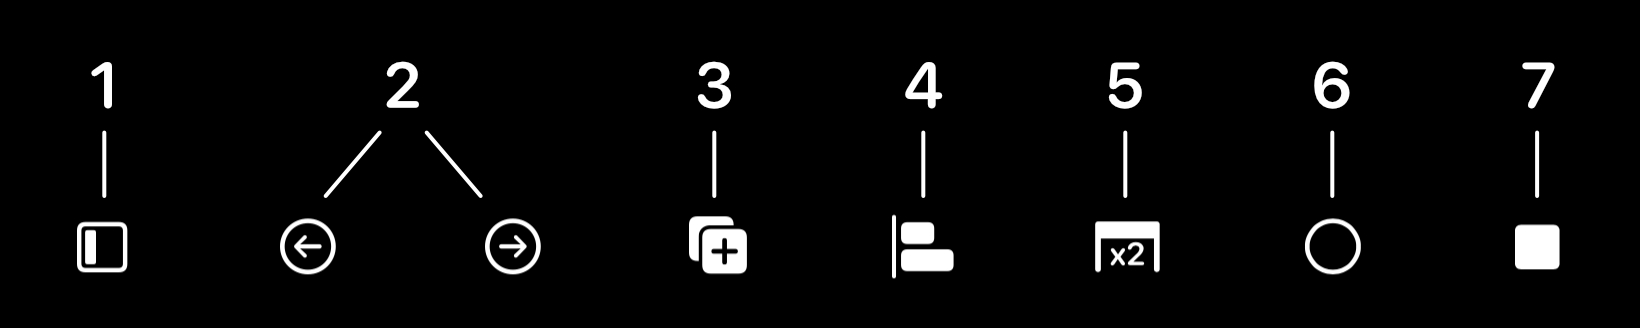
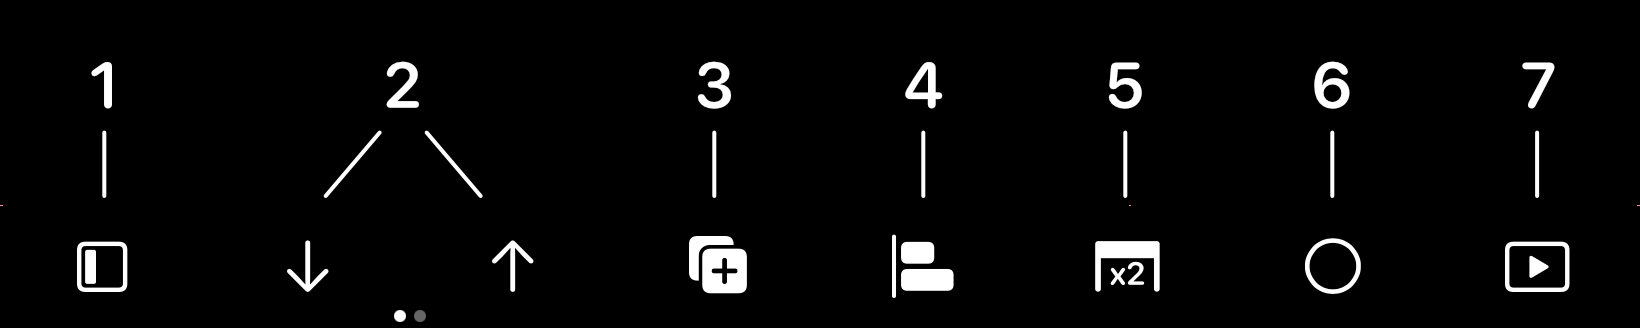
Almost all of the Tap manual refreshed for 1.4

diff --git a/content/tap/manual/_index.md b/content/tap/manual/_index.md
@@ -88,7 +88,11 @@ This is where every adventure starts.
 - Select **Try to connect to Ableton Live** and then **Play Tap** to play Tap.  
 - Tap **Test Tap without Connection** to explore Tap without connection.  
 - Tap **Start Encoders** to go straight to the standalone [Encoders View](#3-6-encoders-view).  
-- Also available in the Home View: **Help** and **Settings**.
+- Also available in the Home View: **Help** and [Settings](#3-1-1-settings).
+
+### 3.1.1 Settings
+In Settings you can configure very useful things, like the connection or touch indicators (great for tutorials etc.).
+- You will also find a button to enable/disable all **Performance Features**. This is highly recommended to turn Tap into the powerhouse instrument to play Ableton Live.
 
 ### 3.2 Main Views
 The main Ableton Live controller views share some common elements, described below.
@@ -99,14 +103,24 @@ The top bar showing the tracks of your Live project.
 - A little half circle at the start or end indicates that there are more tracks to be found in that direction. 
 - Navigate between tracks by swiping left or right. To select a track, tap on it. The currently selected track is displayed in bold font.   
 - When you tap on a track that is already selected, you switch the main view!
-- A long-press opens the track’s context menu where you can add tracks, delete tracks, configure the standard note length for the step sequencers, go [Home](#3-1-home-view), or go to [Encoders](#3-6-encoders-view).
+- A long-press opens the track’s context menu where you can:
+  - add track
+  - delete track
+  - toggle arm of the track (if audio track)
+  - activate "select a drum pad without playing it" (only with active drum pad layout)
+  - configure the standard note length (only with active step sequencer)
+  - go [Home](#3-1-home-view)
+  - go to [Encoders](#3-6-encoders-view)
 
 {{ image_sets(path="content/tap/manual/Tap_tracks_context_menu.jpg", format="auto", op="fit_width", quality=75, alt="Tracks Bar Context Menu", caption='The Tracks Bar context menu.' imgset_class="imgset-twothird") }}
 
 #### 3.2.2 Footer Bar
-Here's a detailed look at the buttons in the footer bar:
+Here's a detailed look at the buttons in the footer bar in vertical mode:
 
-{{ image_sets(path="content/tap/manual/Footer_Bar.jpg", format="auto", op="fit_width", quality=75, alt="Tap Footer Bar", caption='The Footer Bar buttons.' imgset_class="imgset-twothird") }}
+{{ image_sets(path="content/tap/manual/Footer_Bar.jpg", format="auto", op="fit_width", quality=75, alt="Tap Footer Bar", caption='The Footer Bar buttons in the step sequencers.' imgset_class="imgset-twothird") }}
+
+Here it is in horizontal mode:
+// TODO: add new image(s?)
 
 1. Side Panel/Encoders Button  
 The side panel opens the options side panel in the [Device View](#3-3-device-view), where you will find layout, velocity, pitch-bend/modwheel, scale, root, and octave/drums page.  
@@ -116,11 +130,10 @@ Long-press opens the [Encoders View](#3-6-encoders-view).
 2. Navigation Buttons  
 Navigate the three main views via the arrow buttons. In the [Encoders View](#3-6-encoders-view), this will move forward and backward through the encoder pages if you have more than one page.  
 Long-press on the left-pointing arrow to undo; long-press on the other to redo.  
-In the [Home View](#3-1-home-view) Settings, you can disable navigation with these buttons (**Header View Switching** active) to undo and redo with a single tap (**Make Navigation Buttons Undo & Redo Only** active). With this setting enabled, you will need to use the [Tracks Bar](3-2-1-tracks-bar) for navigation instead.  
-**New in 1.3:** Turn those arrows to octave/drums page up and down in Device View. Long-press is still redo and undo (you need to have **Header View Switching** active for this option to show up).
+In the [Settings](#3-1-1-settings), you can activate all **Performance Features**; with that feature you will need to use the [Tracks Bar](3-2-1-tracks-bar) for navigation by tapping on the active Track to switch the view. Long-press is still redo and undo, but you can use these buttons in Device View to move up and down through the octaves/drums pages and going forward and backwards through the [Step Sequencer](#3-3-5-step-sequencer) pages. To change the mode, you simply swipe left or right over the navigation buttons. In the rest of the views, the buttons will remain undo and redo.
 
 3. Duplicate/Stop
-In Device View: Duplicates the selected clip. Long-press shows a context menu where you can duplicate the selected scene and in drums you can also select a pad.  
+In Device View: Duplicates the selected clip. Long-press will duplicate the selected scene.  
 In the other views: Stops all the clips.
 
 4. Quantize  
@@ -129,23 +142,32 @@ Long-press will show detailed quantize options.
 
 5. Capture/Double Loop/Home  
 In [Device View](#3-3-device-view), with a keyboard or pads active, this captures the MIDI just played.  
-If you are in the step sequencer layout, this will double the selected loop.  
+If you are in the [Step Sequencer](#3-3-5-step-sequencer) layout, this will double the selected loop.  
 In all other views, this will get you back to the [Home View](#3-1-home-view).
 
 6. Record  
 Activates or deactivates the session record button.
 
-7. Play/Stop  
-Starts or stops the playback. Long-press shows a context menu for stopping and starting clips.
+7. Play/Stop/Play Menu/Tempo
+In the [Step Sequencer](#3-3-5-step-sequencer) without **Performance Features**: Long-press shows a context menu for stopping, starting, adding, going to clips + tempo.  
+In the step sequencer with **Performance Features**: Single Tap opens that menu. Long-press opens the Tempo Overlay (see below).  
+In all other layouts and views: Starts or stops the playback. Long-press opens the tempo overlay.  
+  
+Tempo Overlay
+{{ image_sets(path="content/tap/manual/Tempo_Overlay.jpg", format="auto", op="fit_width", quality=75, alt="Tap Tempo Overlay", caption='The Tempo Overlay' imgset_class="imgset-twothird") }}
+Tapping the plus and minus buttons will adjust the tempo by the amount indicated in the center.  
+Tapping on the BPM digits lets you type in the exact tempo you want.
+
 
 ### 3.3 Device View
 #### 3.3.1 Devices Bar
 The devices are shown here.
 - You can navigate by swiping left or right. 
-- Select a device by tapping on it.  
+- Select a device by tapping on it. The selected device has a bold font. 
 - Tap the ⊕ symbol to add a new random device. You can choose between adding a random sound, synth, drums (if you are in a MIDI track), or effect.
+- < (open) and > (closed) symbols indicate rack mothers. You can open and close racks by tapping on a selected rack mother. Chain start and ends are indicated by corner brackets.
 
-{{ image_sets(path="content/tap/manual/Devices Bar.jpeg", format="auto", op="fit_width", quality=75, alt="7III Tap Devices Bar", caption='The Devices Bar.') }}
+{{ image_sets(path="content/tap/manual/Devices Bar.jpg", format="auto", op="fit_width", quality=75, alt="7III Tap Devices Bar", caption='The Devices Bar.') }}
 
 #### 3.3.2 Banks Bar
 Navigate and select banks of the chosen device here.
@@ -161,12 +183,15 @@ The 8 encoders of the current bank.
 - Double-tap an encoder to reset to 0 (or center for Panning); triple-tap to reset to center (63).
 - Encoders with active automation have a small circle in the top left corner, in the color of the track. If the circle is gray, it means the automation is not active.
 
+{{ image_sets(path="content/tap/manual/encoder.jpg", format="auto", op="fit_width", quality=75, alt="Tap Encoder", caption='An Encoder with active automation' imgset_class="imgset-twothird") }}
+
 #### 3.3.4 MIDI Grid
 The MIDI grid is for playing notes (huge surprise!).  
 - The pads show names if you are in a drum rack, the note names if in a MIDI track.  
 - Root notes are in a different color than the rest of the pads. If you are in a drum rack, the selected drum pad is in the channel color.  
 - You have the option of choosing different scales, velocity modes, mod wheel, pitch wheel, layouts, and more via the Side Panel button in the [Footer Bar](#3-2-2-footer-bar).  
 - Many keyboard and pad layouts are available. The layouts **Keys** and **7 Pads** are velocity-sensitive - the higher up you hit a pad, the greater the velocity. You can invert or fix the velocity in the Side Panel.
+- Notes played by the playing clip are lit up.
 
 {{ image_sets(path="content/tap/manual/MIDI pads.jpg", format="auto", op="fit_width", quality=75, alt="7III Tap MIDI grid", caption='One of the many MIDI grid pads layouts.') }}
 
@@ -176,11 +201,13 @@ Step sequence away!
 - Drag up or down in the little rectangle at the end of a note to change the velocity of that note.  
 - Drag left or right in the little rectange at the end of a note to change the length of that note.  
 - Each note you add will have the velocity set in the Side Panel (see button 1 in the [Footer Bar](#3-2-2-footer-bar))
-- Drag horizontally on the background to navigate through the pages of the Step Sequencer. 
-- Change the drums page or octave using the Side Panel, or the up/down buttons in the Footer Bar - available in landscape mode or when the "Make Navigation Buttons Octave Up & Down..." setting is enabled (see [Footer Bar](#3-2-2-footer-bar) button 2).
-- To select a drum pad, long press on an empty step in the step sequencer.
+- Drag horizontally on the background to navigate through the pages of the Step Sequencer. With **Performance Features** enabled you only change pages with the Footer Bar arrows.
+- Drag vertically first on the background to activate [Selection Mode](#3-3-5-1-selection-mode). With **Performance Features** enabled you can simply drag on the background to activate Selection Mode.
+- Long press on a note to also enter Selection Mode (or if already in Selection Mode, this will add/remove the note from the selection).
+- Change the drums page or octave using the Side Panel, or the up/down buttons in the Footer Bar - available in landscape mode or when **Performance Features** are enabled (see [Footer Bar](#3-2-2-footer-bar) button 2).
+- To select a drum pad, long press on an empty step in the Step Sequencer.
 
-Let's dive into the Tap step sequencer in detail:
+Let's dive into the Tap Step Sequencer in detail:
 {{ image_sets(path="content/tap/manual/Step_Sequencer.jpg", format="auto", op="fit_width", quality=75, alt="Tap Step Sequencer", caption='The Step Sequencer.' imgset_class="imgset-twothird") }}
 
 1. The Start and Stop are marked with dark triangles.
@@ -195,33 +222,92 @@ Let's dive into the Tap step sequencer in detail:
 
 When you tap the Lil Green Helper rectangle, you will see the following menu:
 
-{{ image_sets(path="content/tap/manual/Step Seq Context Menu.jpg", format="auto", op="fit_width", quality=75, alt="Tap Step Sequencer Context Menu", caption='The Lil Green Helper menu.', imgset_class="imgset-half") }}
+{{ image_sets(path="content/tap/manual/Step Seq Context Menu.jpg", format="auto", op="fit_width", quality=75, alt="Tap Lil Green Helper menu", caption='The Lil Green Helper menu.', imgset_class="imgset-half") }}
 
-1. Move helper buttons: Use these if you don't want to drag the Lil Green Helper by hand. Moves the green rectangle to the start or end of the sequencer window.
-2. Move buttons: Move up and down the octave in instruments, and up and down the drums page for drums.
-3. See 2.
-4. Page to Clip Start/End: Moves the sequencer page to the start/end of the clip.
-5. Page to Loop Start/End: Moves the sequencer page to the start/end of the loop.
-6. Crop Clip: Crops the clip to the loop length.
-7. Move Loop Start/End & Loop: Moves the start/end of the loop and the whole loop (this means no change in loop length) to where the Lil Green Helper rectangle sits.
-8. Move Loop Start/End: Only moves the start/end of the loop to where the Lil Green Helper rectangle sits. This will change the length of the loop.
-9. See 7.
-10. See 8.
-12. Stop playing Clip: Will stop the playing clip.
-13. To playing Clip: Will move the selection (and the step sequencer) to the playing clip.
-14. New empty Clip: Will create a new empty clip and select it.
-15. & 16. Start/End Marker: Moves the start/end marker to the Lil Green Helper rectangle.
+1. Move helper to End/Start: Use these if you don't want to drag the Lil Green Helper by hand. Moves the green rectangle to the start or end of the sequencer window.
+2. Page to Clip Start/End: Moves the sequencer page to the start/end of the clip.
+3. Page to Loop Start/End: Moves the sequencer page to the start/end of the loop.
+4. Crop Clip: Crops the clip to the loop length.
+5. Move Loop Start/End & Loop: Moves the start/end of the loop and the whole loop (this means no change in loop length) to where the Lil Green Helper rectangle sits.
+6. Move Loop Start/End: Only moves the start/end of the loop to where the Lil Green Helper rectangle sits. This will change the length of the loop.
+7. Start/End Marker: Moves the start/end marker to the Lil Green Helper rectangle.
 
+##### 3.3.5.1 Selection Mode
+Enter Selection Mode by either selecting notes or long-pressing on a note. Selected notes and range are highlighted in light-blue.
+Selections work the same way as in Ableton Live. You can add or substract from a selection by dragging the selection square accordingly. You can also long-press on a selected note to deselect it. You can also add and substract from the range of the selection, without selecting additional notes. This is important for duplication and copy pasting.  
+You can move around selected notes by dragging them.
+Info: You can't undo and redo selections.
+
+{{ image_sets(path="content/tap/manual/Footer_Bar_Selection_mode.jpg", format="auto", op="fit_width", quality=75, alt="Tap Footer Bar in Selection Mode", caption='The Footer Bar buttons in Selection Mode.' imgset_class="imgset-twothird") }}
+
+Once in Selection Mode, there are several new [Footer Bar](#3-2-2-footer-bar) buttons available, here are the new ones:
+1. Trash: Deletes the selected notes.
+4. Edit Overlay: Opens and closes the edit overlay.
+6. Modulation Menu: Opens and closes the modulation menu.
+7. Selection Menu: Opens and closes the selection menu.
+
+**Edit Overlay**  
+{{ image_sets(path="content/tap/manual/Edit_Overlay.jpg", format="auto", op="fit_width", quality=75, alt="Tap MIDI Notes Edit Overlay", caption='The notes Edit Overlay.' imgset_class="imgset-twothird") }}
+1. Velocities of the selected notes. Drag to increase and decrease. Takes effect on letting go.
+2. Probabilities of the selected notes. Drag to increase and decrease. Takes effect on letting go.
+3. Copy button. Copies the selected range and notes into the copy buffer. To paste either press the Paste button (pastes buffer at start of selected range) or tap any grid cell. You can also paste in other clips etc.
+4. Lengthen/shorten button. Lengthens or shortens the selected notes by one grid cell. On long-press, prolongs or shortens by one beat. On swipe you can change to x2 and /2 buttons. These multiply or divide the duration of the selected notes by 2.
+5. Cut button. Cuts the selected range and notes into the copy buffer. To paste, see "3. Copy button".
+6. Duplicate button. Duplicates the selected range and notes to the end of the selected range.
+7. Page indicator. Tap it or swipe on it to change the elongate/shorten buttons to x2 and /2 buttons.
+8. Move buttons. Left and right moves the selected range and notes by one grid. Long-press moves the selected range and notes by one beat. Up and down moves the selected range and notes by one scale step. Long-press moves the selected notes by one octave.
+
+**Modulation Menu**  
+{{ image_sets(path="content/tap/manual/Modulation_Menu.jpg", format="auto", op="fit_width", quality=75, alt="Tap MIDI notes modulation menu", caption='The Modulation Menu.' imgset_class="imgset-twothird") }}
+There are four modulation categories:  
+- Timing
+  - Random will get you random timings inside the selected range.
+  - Vary will vary the timing of the selected notes by up to 4 grid cells
+  - Reverse reverses the timing of the selected notes inside the selected range.
+  - Falling person will humanize the timing.
+- Pitch
+  - Shuffle will shuffle the pitches of the selected notes.
+  - Vary will vary the pitches of the selected notes by up to 4 semitones.
+  - Invert will invert the pitches of the selected notes.
+- Velocity
+  - Random will randomize the velocities of the selected notes.
+  - Vary will vary the velocities of the selected notes by up to 30% or so.
+- Probability
+  - Random will randomize the probabilities of the selected notes.
+  - Vary will vary the probabilities of the selected notes by up to 30% or so.
+
+**Selection Menu**  
+You can: 
+- select all notes
+- invert the selection
+- randomize the selection
 
 ### 3.4 Clips View
+{{ image_sets(path="content/tap/manual/clips.jpg", format="auto", op="fit_width", quality=75, alt="7III Tap Clips View", caption='The Clips View.') }}
+
 Shows the clips. 
 - Use the [Tracks Bar](#3-2-1-tracks-bar) to navigate horizontally; drag in the Clips View for navigating vertically.  
-- Start and stop clips by tapping on a clip. If you tap on an empty clip slot, Tap will take you to the [Device View](#3-3-device-view). 
-- Long-press on any clip slot to bring up a context menu.  
+- Start and stop clips by tapping on a clip. If you tap on an empty clip slot in a MIDI Track, Tap will take you to the [Device View](#3-3-device-view). If you tap an emptry clip in an armed audio track (arm by long-press in the Tracks Bar, then tap "Toggle Arm"), the recording will start. Tap it again to stop the recording.
+- Long-press on any clip slot to bring up a context menu (see below).  
 - Pressing the Side Panel button in the [Footer Bar](#3-2-2-footer-bar) activates the Scene Launch buttons to launch scenes.  
 - The selected device's Banks Bar and Encoders Section are displayed above the clip view, exactly like in the Device View.
 
-{{ image_sets(path="content/tap/manual/clips.jpg", format="auto", op="fit_width", quality=75, alt="7III Tap Clips View", caption='The Clips View.') }}
+**Clip Slot Context Menu**
+{{ image_sets(path="content/tap/manual/Clip_Slot_Menu.jpg", format="auto", op="fit_width", quality=75, alt="Tap Clip Slot menu", caption='The Clip Slot Menu.' imgset_class="imgset-twothird") }}
+
+Inside the context menu, you can:
+- Select the clip/clip slot
+- Duplicate the scene
+- if a clip is on the slot:
+  - Duplicate the loop of the clip
+  - Stop the clip
+  - Append the clip to another clip
+    - Simply tap on the clip you want to append to. The original clip will get added to the end of the tapped clip. The original clip will get removed.
+  - Copy the clip 
+    - To paste simply tap on an empty clip slot
+  - Duplicate the clip
+  - Delete the clip
+
 
 ### 3.5 Mixer View
 Shows the mixer section. 
